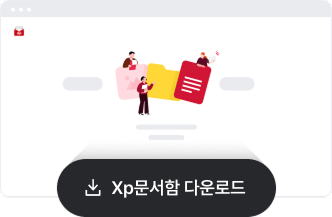
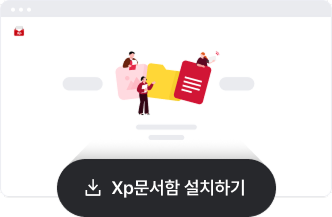
💄 다운로드 -> 설치하기 문구로 변경

Changed region(s): [[0.5422, 0.8295, 0.753, 0.9124]]

diff --git a/index.html b/index.html
@@ -111,8 +111,8 @@
         </li>
       </ul>
     </nav>
-    <button type="button" class="button" aira-label="문서함 다운로드 버튼" onclick="onClickXpDoc();gaClick('landing_header_install', '헤더_문서함_사용하기_버튼')">
-      Xp문서함 다운로드
+    <button type="button" class="button" aira-label="문서함 설치하기 버튼" onclick="onClickXpDoc();gaClick('landing_header_install', '헤더_문서함_사용하기_버튼')">
+      Xp문서함 설치하기
     </button>
   </header>
 
@@ -183,9 +183,9 @@
           문서 관리, 이제 어렵게 하지 마세요!<br>
           Xp문서함은 언제 어디서나 아파트 관리사무소 문서 편집이 가능합니다.
         </p>
-        <button type="button" aira-label="문서함 다운로드 버튼" class="button" onclick="onClickXpDoc(); gaClick('landing_install', '문서함_사용하기_버튼');">
+        <button type="button" aira-label="문서함 설치하기 버튼" class="button" onclick="onClickXpDoc(); gaClick('landing_install', '문서함_사용하기_버튼');">
           <i class="icon down"></i>
-          Xp문서함 다운로드
+          Xp문서함 설치하기
         </button>
       </section>
     </article>
@@ -365,7 +365,7 @@
         <ol class="section-contents installation">
           <li class="section-card installation">
             <strong class="step-num">1</strong>
-            <h3>Xp문서함 다운로드 버튼 선택</h3>
+            <h3>Xp문서함 설치하기 버튼 선택</h3>
             <div class="thum-img">
               <img src="./assets/img/xpdoc-install-01-250903.png" alt="Xp문서함 설치 버튼 선택">
             </div>
